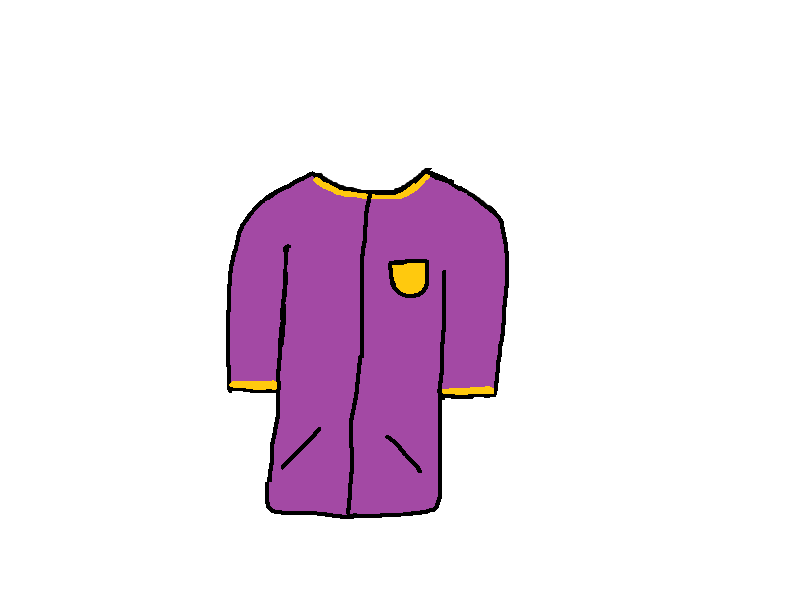
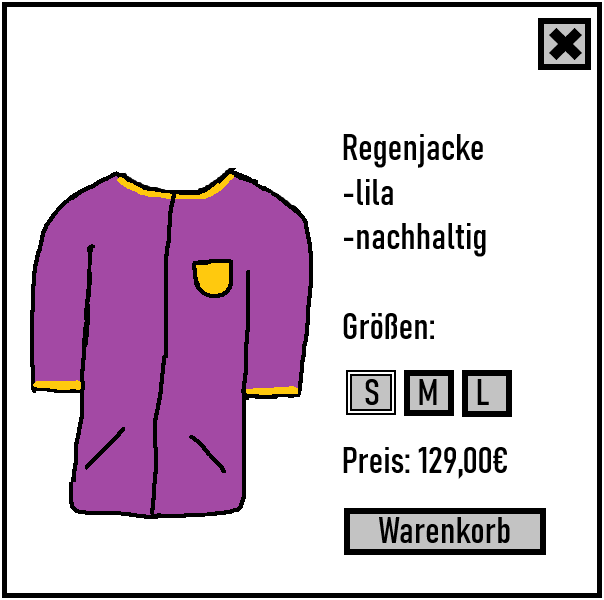
Warenkorb Funktion mit Grafik verknüpft

diff --git a/js/navigation.js b/js/navigation.js
@@ -2,7 +2,7 @@ var jahreszeiten = ["sommer", "winter", "regen"];  // Names of the elements
 var mausIstAufDerPerson = false
 var jahreszeit = 0;
 var lilaJacke = false; //verhindert, dass lila Jacke durch Mouseover verändert wird
-
+var imAuswahlFenster = true;
 var personenJahreszeiten = ["Sommer_colored.png", "Winter_colored.png", "Regen_Colored_1.png"];  // Names of the elements
 
 var koerperregionenX = ["Links", "Mitte", "Rechts"]
@@ -223,7 +223,6 @@ function FindPosition(oElement) {
     }
 }
 
-
 function GetCoordinates(e) {
   var Pos = [0,0];
   var ImgPos;
@@ -234,15 +233,33 @@ function GetCoordinates(e) {
 }
 
 function saleAuswahl(e) {
-    var img_width = document.getElementById("SaleAuswahl").clientWidth/800;
-    var img_height = document.getElementById("SaleAuswahl").clientHeight/600;
+    console.log(this.imAuswahlFenster);
+    var img_width = document.getElementById("SaleAuswahl").clientWidth;
+    var img_height = document.getElementById("SaleAuswahl").clientHeight;
     var Pos;
-    var Pos_lilaJacke = [533, 723, 232, 368];
     Pos = GetCoordinates(e);
-
-    if ((Pos_lilaJacke[0]*img_width < Pos[0]) && (Pos[0] < Pos_lilaJacke[1]*img_width) && (Pos_lilaJacke[2]*img_height < Pos[1]) && (Pos[1]< Pos_lilaJacke[3]*img_height)) {
-        this.lilaJacke = true;
-        document.getElementById("IVperson").src = "/pictures/regen/regen_Colored_lila_Jacke_mit_grau.png";
+    if (this.imAuswahlFenster==true){
+        var Pos_lilaJacke = [533, 723, 232, 368];
+        var img_lilaJacke = [800, 600];
+        img_width = img_width/img_lilaJacke[0];
+        img_height = img_height/img_lilaJacke[1];
+        if ((Pos_lilaJacke[0]*img_width < Pos[0]) && (Pos[0] < Pos_lilaJacke[1]*img_width) && (Pos_lilaJacke[2]*img_height < Pos[1]) && (Pos[1]< Pos_lilaJacke[3]*img_height)) {
+            this.lilaJacke = true;
+            document.getElementById("IVperson").src = "pictures/regen/regen_Colored_lila_Jacke_mit_grau.png";
+            document.getElementById("SaleAuswahl").src = "pictures/sale/sale_Colored_lila_Jacke.png";
+            this.imAuswahlFenster=false;
+        }
+    } else {
+        var Pos_shoppingCart = [345, 545, 508, 555];
+        var sale_img = [604, 600];
+        img_width = img_width/sale_img[0];
+        img_height = img_height/sale_img[1];
+        if ((Pos_shoppingCart[0]*img_width < Pos[0]) && (Pos[0] < Pos_shoppingCart[1]*img_width) && (Pos_shoppingCart[2]*img_height < Pos[1]) && (Pos[1]< Pos_shoppingCart[3]*img_height)) {
+            document.getElementById("SaleAuswahl").src = "pictures/sale/sale_finished.png";
+            addToCart("Regenjacke lila");
+        }
     }
+    
+
     
 }

diff --git a/detailansicht.html b/detailansicht.html
@@ -144,7 +144,7 @@
     }
 </script>
 
-<!-- Jahreszeit muss noch richtig übergeben werden an MainMenu und für das Bild -->
+
 </head>
 <title>GMCI-Shop</title>
 <body onload="mainMenu(jahreszeiten[2]); setJahreszeit(jahreszeiten[2])">
@@ -185,10 +185,10 @@
                 
             </div>
             <div class="desktop-3-cols">
-                <img id="IVperson" src="\pictures\regen\regen_Colored_1.png" onmousemove="onMausUeberDerPerson(event)" onmouseout="showBasicPerson()" onmouseenter="mausIstAufDerPerson = true"/>
+                <img id="IVperson" src="pictures/regen/regen_Colored_1.png" onmousemove="onMausUeberDerPerson(event)" onmouseout="showBasicPerson()" onmouseenter="mausIstAufDerPerson = true"/>
             </div>
             <div class="desktop-6-cols"> 
-                <img id="SaleAuswahl" src="\pictures\sale\sale_Auswahl.png" onmouseup="saleAuswahl(event)"/>
+                <img id="SaleAuswahl" src="pictures/sale/sale_Auswahl.png" onmouseup="saleAuswahl(event)"/>
             </div>
         </div>
         <div class="col-12 footer">

diff --git a/shopping_cart.html b/shopping_cart.html
@@ -165,8 +165,8 @@ function populateShoppingCart() {
             listing_name.innerHTML = element;
             listing_name.style = "width: 600px; text-align:center";
             price = row.insertCell();
-            price.innerHTML = "100€";
-            total_price += 100;
+            price.innerHTML = "129€";
+            total_price += 129;
             price.style = "text-align: left";
         });
         row = table.insertRow();
